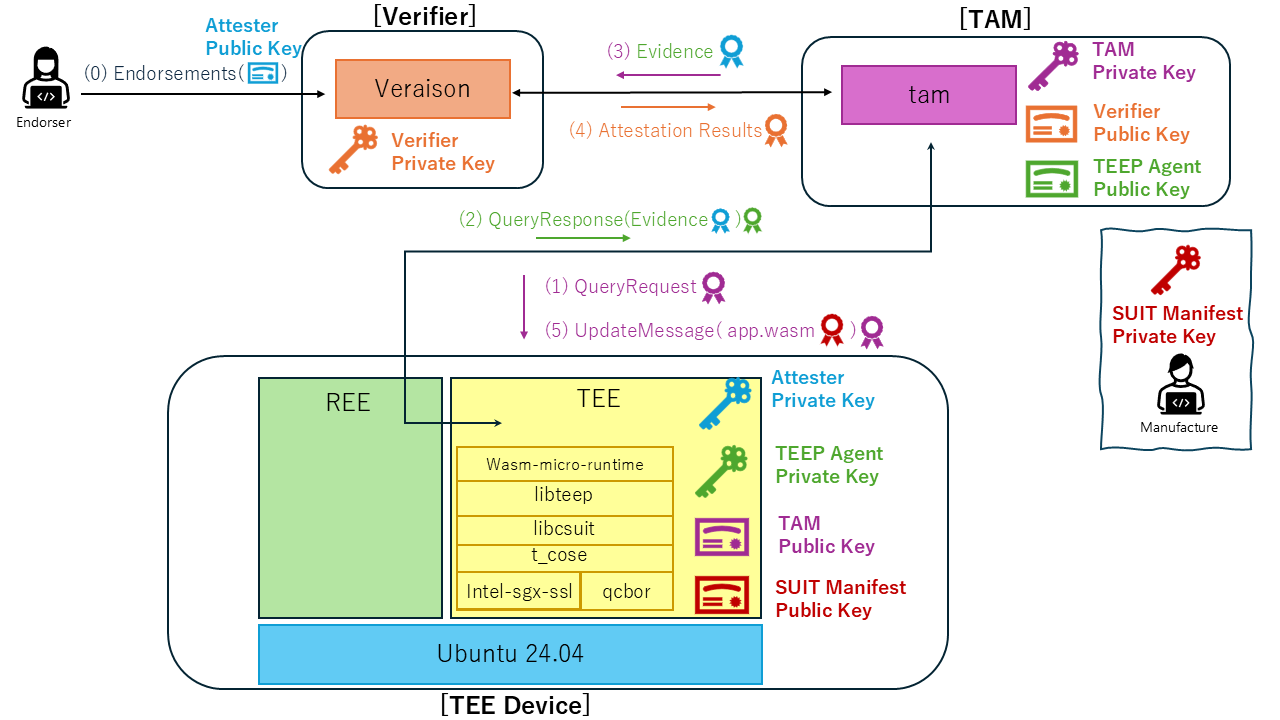
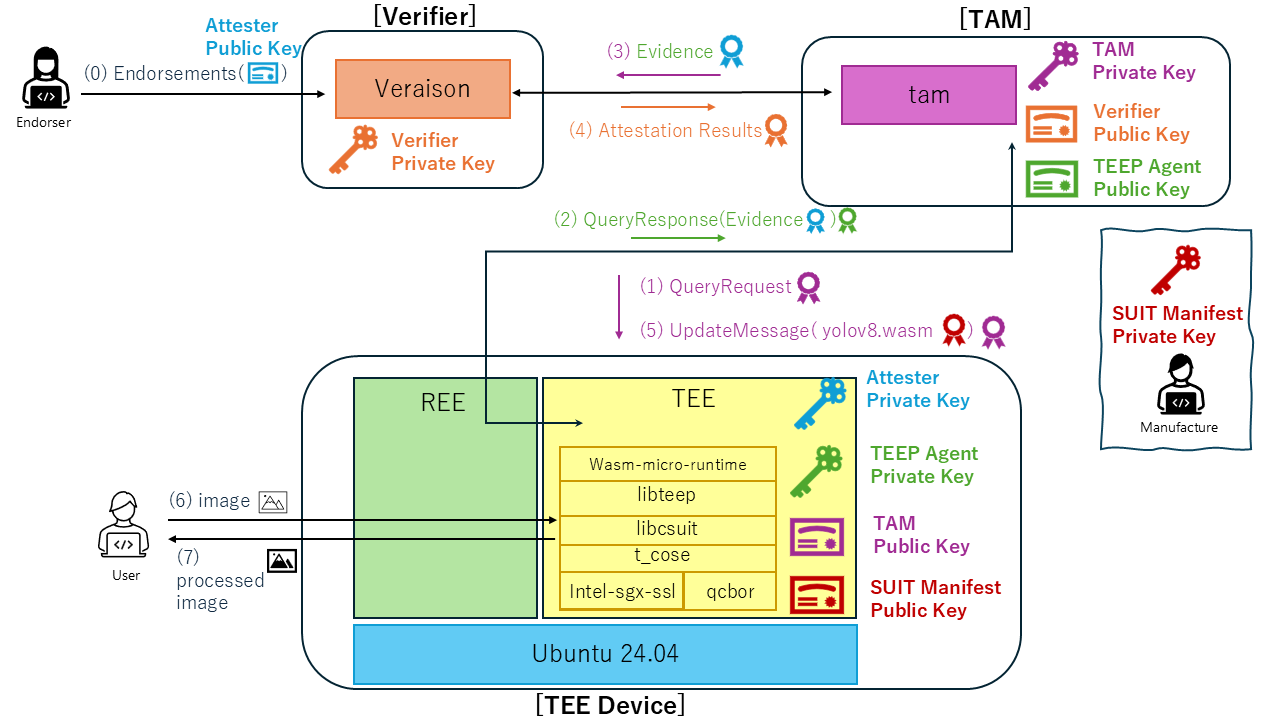
fix README

diff --git a/README.md b/README.md
@@ -1,12 +1,11 @@
 # TAWS: A TEEP Agent for Wasm on Intel SGX
 
 This repository contains the TEEP Agent implementation used in the TEEP demo.
+In this demo, TEE Device downloads a YOLOv8 WebAssembly module and runs image processing inside the SGX enclave.
 The TAM and Verifier components are maintained in separate repositories.
 This repository focuses on building and running the TEEP Agent in Intel SGX simulation mode.
 By combining this SGX TEEP Agent with the corresponding TAM, you can simulate the full TEEP provisioning flow.
 
-
-## Architecture
 
 ![architectureFig](doc/images/architecture-fig.png)
 
@@ -19,9 +18,8 @@ By combining this SGX TEEP Agent with the corresponding TAM, you can simulate th
 ├── 📁 cmd (CLI + Web-UI entrypoints)
 │   └── 📁 attester
 ├── 📁 doc (documentation assets)
-├── 📁 inc (headers and prebuilt libs)
+├── 📁 common (Shared definitions and interfaces used by both App and Enclave)
 ├── 📁 scripts (build helper scripts)
-├── 📁 tam_mock_server (local TAM mock server)
 ├── 📁 third_party (TEEP dependencies tracked as git submodules)
 │   ├── 📁 libcsuit
 │   ├── 📁 libteep